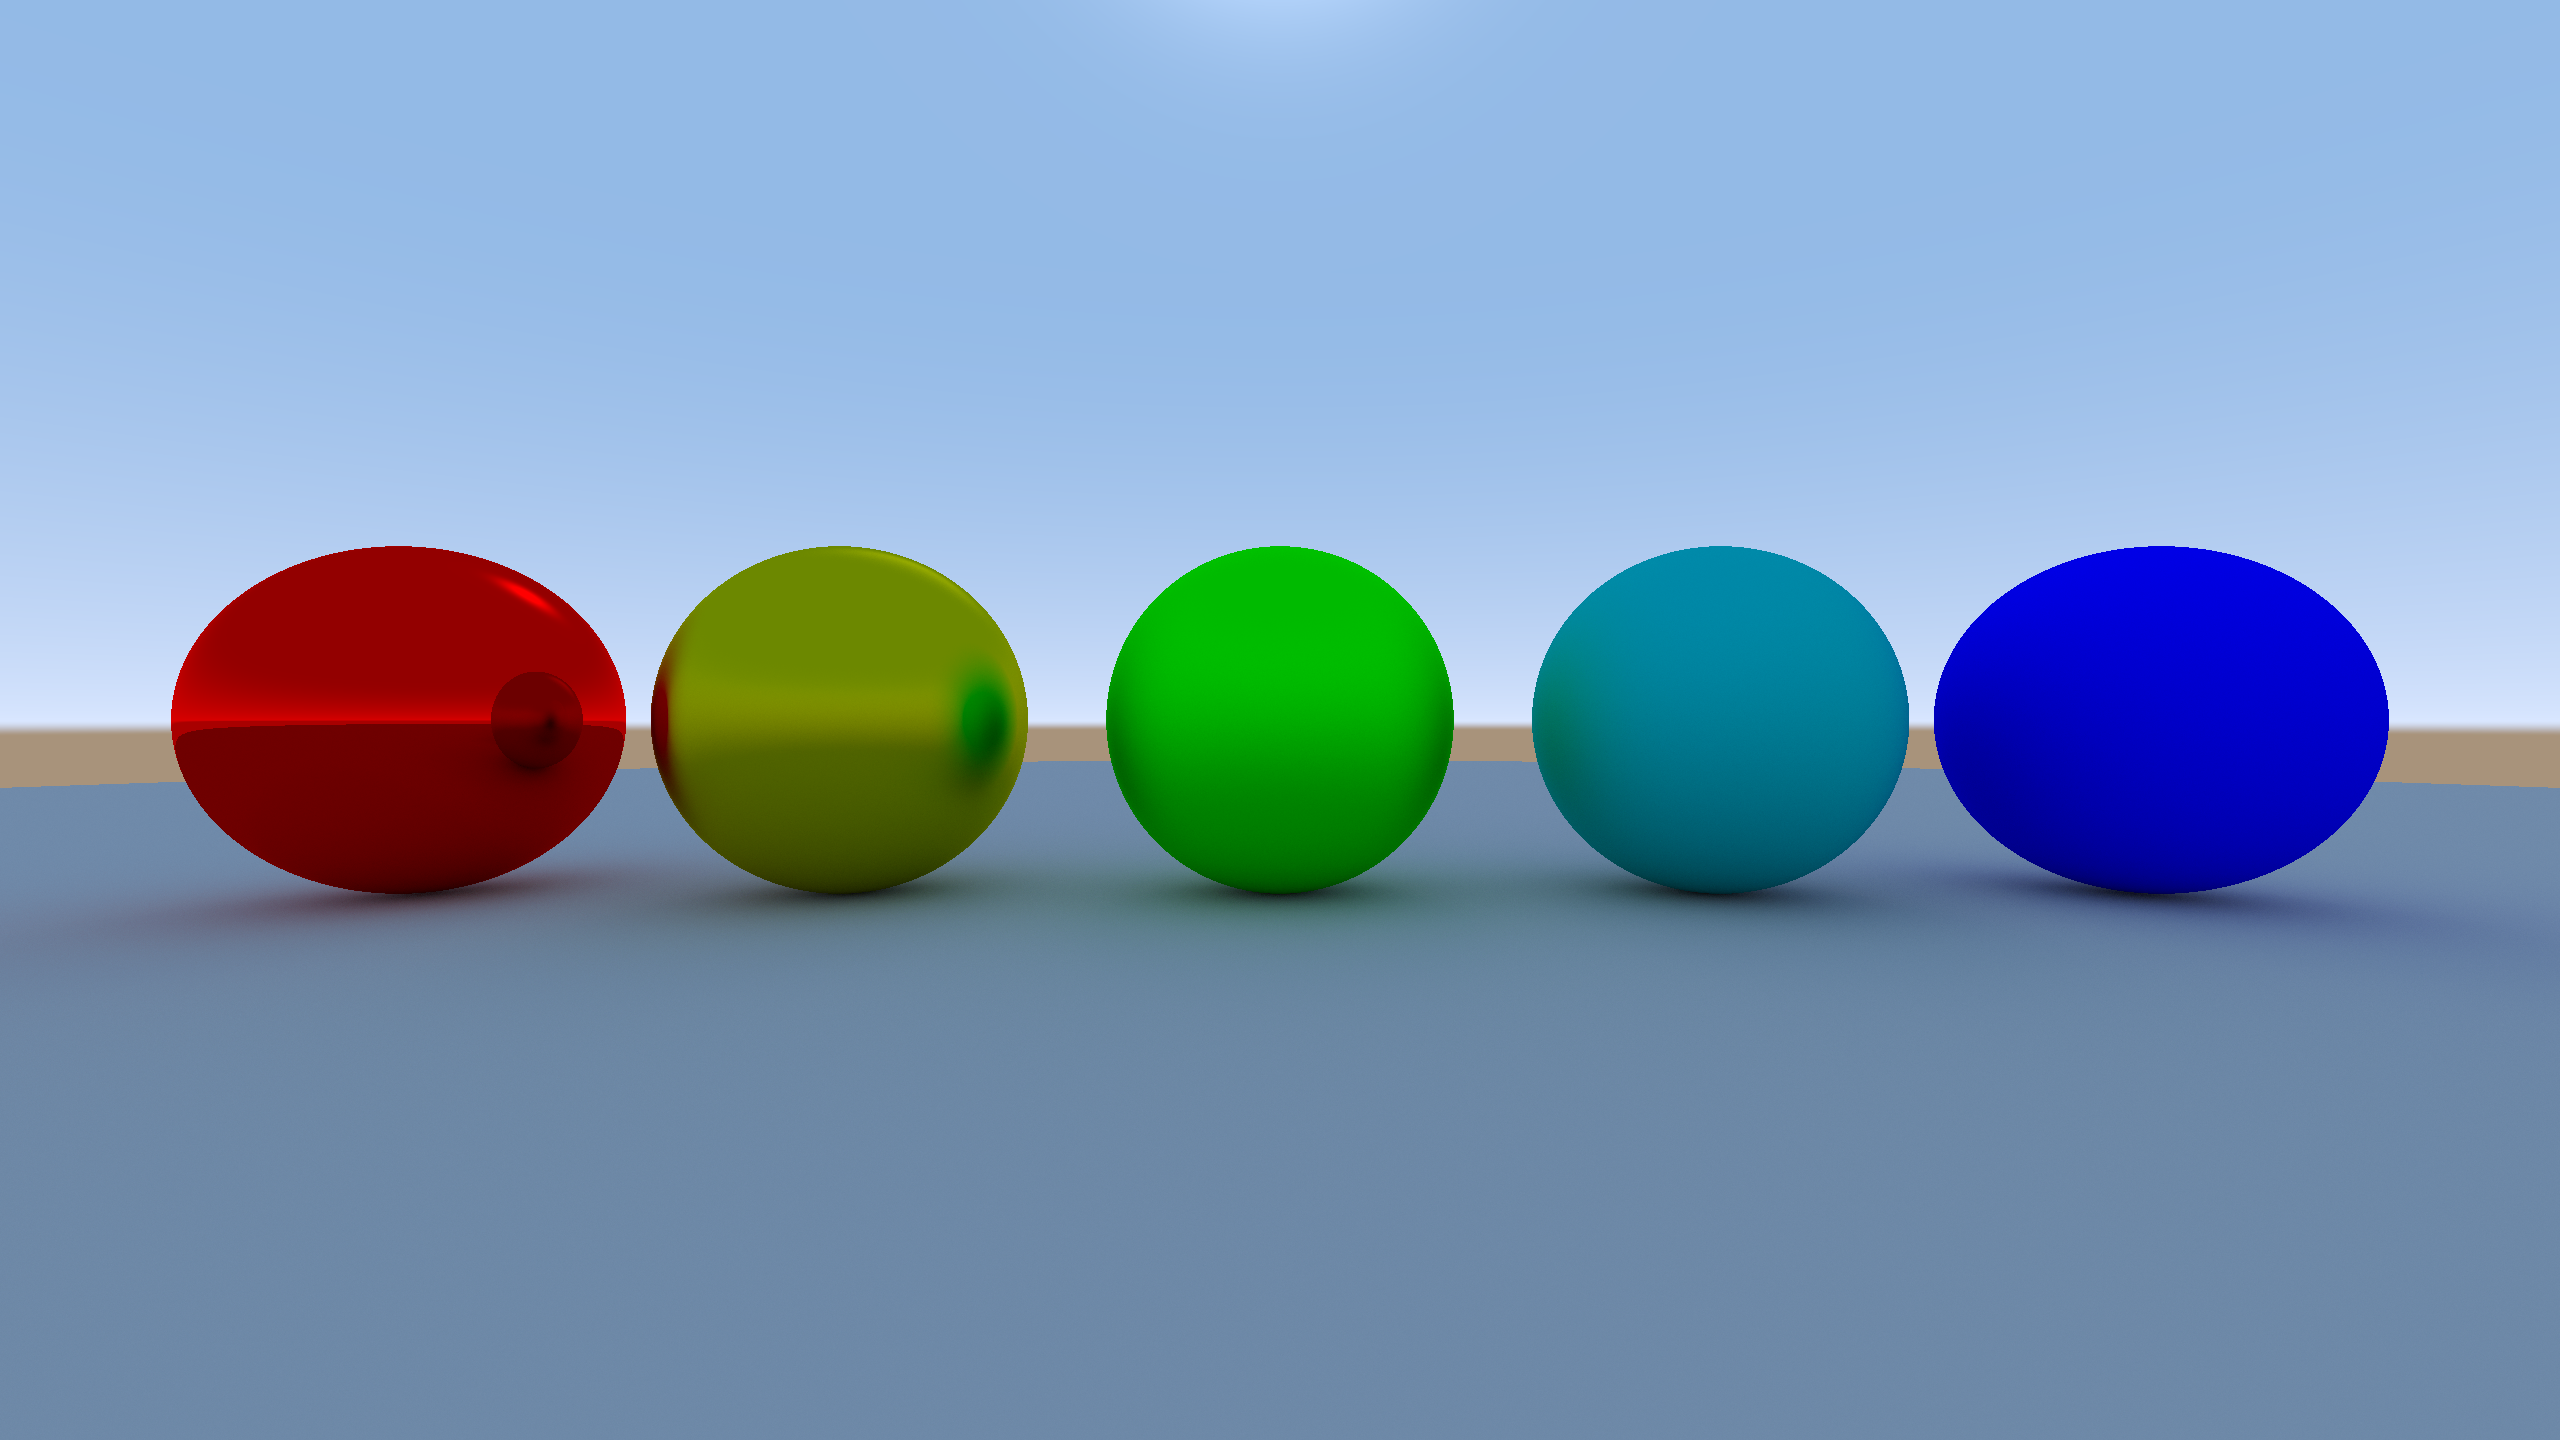
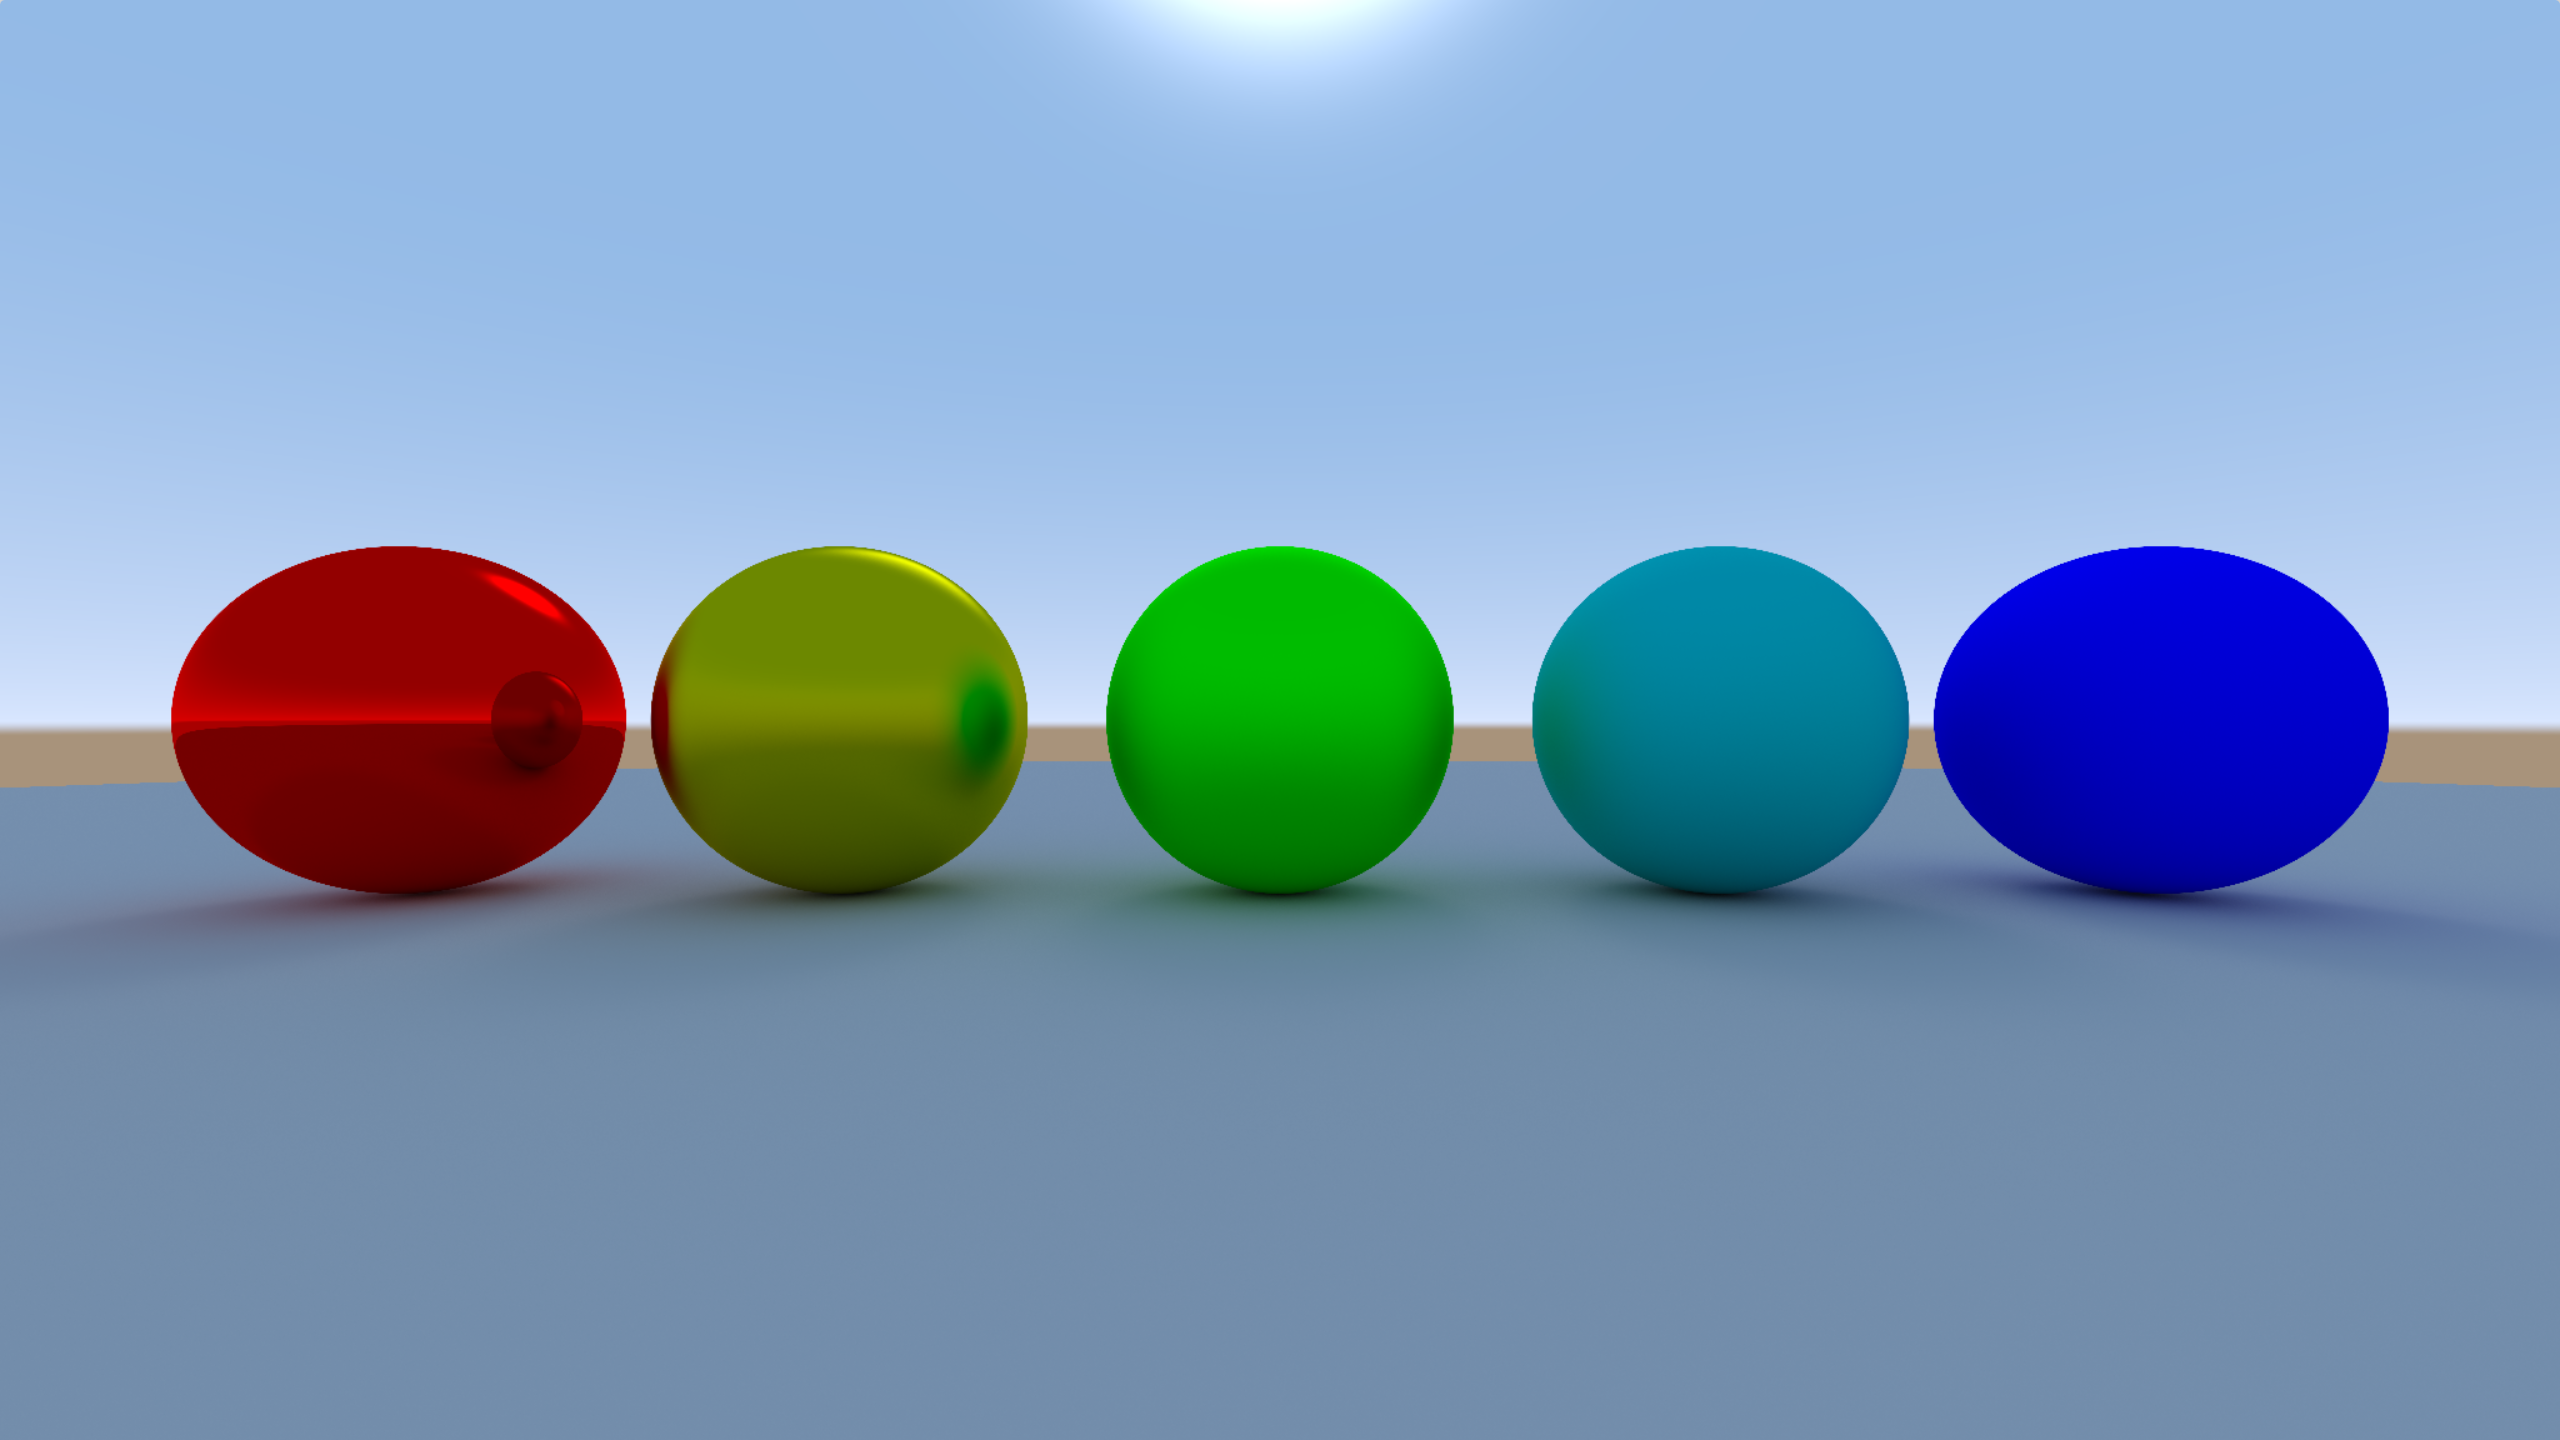
ray final v3

Changed region(s): [[0.4062, 0.0, 0.5938, 0.0625], [0.3125, 0.375, 0.375, 0.4062], [0.1875, 0.375, 0.2188, 0.4375]]

diff --git a/24-25/FCG/RayTracing/renders/README.md b/24-25/FCG/RayTracing/renders/README.md
@@ -138,16 +138,16 @@ Nel render 05render.png abbiamo messo tutte le sfere con indice di rifrazione 1.
 
 Ora mettiamo solo una sfera con luce emissiva:
 ```cpp
-Material(vec3(1.0f, 1.f, 1.f), vec3(0.0f, 0.0f, 0.0f), vec3(1.0f, 1.0f, 1.0f), 0.0f, 0.0f, 0.0f, 5.0f)
+Material(vec3(1.000,1.000,1.000), vec3(1.000,1.000,1.000), 10.0, 0.5, 1.0, 0.0,vec3(0.0))
 ```
-Con colore bianco e intensità 5 (notare che per l'emissione l'intensità può superare 1).
-Disattiviamo anche la luce ambiente: `uniform bool environmentEnabled = false;`
+Con colore bianco e intensità 10 (notare che per l'emissione l'intensità può superare 1).
+Disattiviamo anche la luce ambiente: `bool environmentLight = false;`
 
 Se guardiamo il render 06render.png vediamo che la luce emessa illumina la scena, ma il render è molto rumoroso perché per un pixel ci sono solo 50 campionamenti e c'è una buona probabilità che nessun raggio colpisca la sfera emissiva, rendendo il pixel nero. Invece i pixel intorno hanno colpito la sfera, rendendo l'immagine molto rumorosa, caratteristica del ray tracing. Per risolvere questo problema possiamo usare vari metodi di denoising, che comprende vari algoritmi per ridurre il rumore in un'immagine. 
 Come icrementare il numero di campionamenti per pixel, ma questo aumenta il tempo di rendering.
+O con l'accumulo di più immagini, ma questo richiede più tempo e memoria, rendendoli inpraticatico per immagini in tempo reale.
 Un approccio è conoscere la posizione della luce e favorire i raggi che vanno verso di essa.
-
-Ho implementato spatialFilter che prende i pixel vicini e li media per ridurre il rumore, anche se ciò aumenta il blur dell'immagine. Da qui in poi usiamo questo filtro quando disativiamo la lucce del ambiente, come si vede nel render 06_1render.png.
+alti come spatialFilter che prende i pixel vicini e li media per ridurre il rumore, anche se ciò aumenta il blur dell'immagine. 
 
 ### Aggiunta di più luci emissive
 
